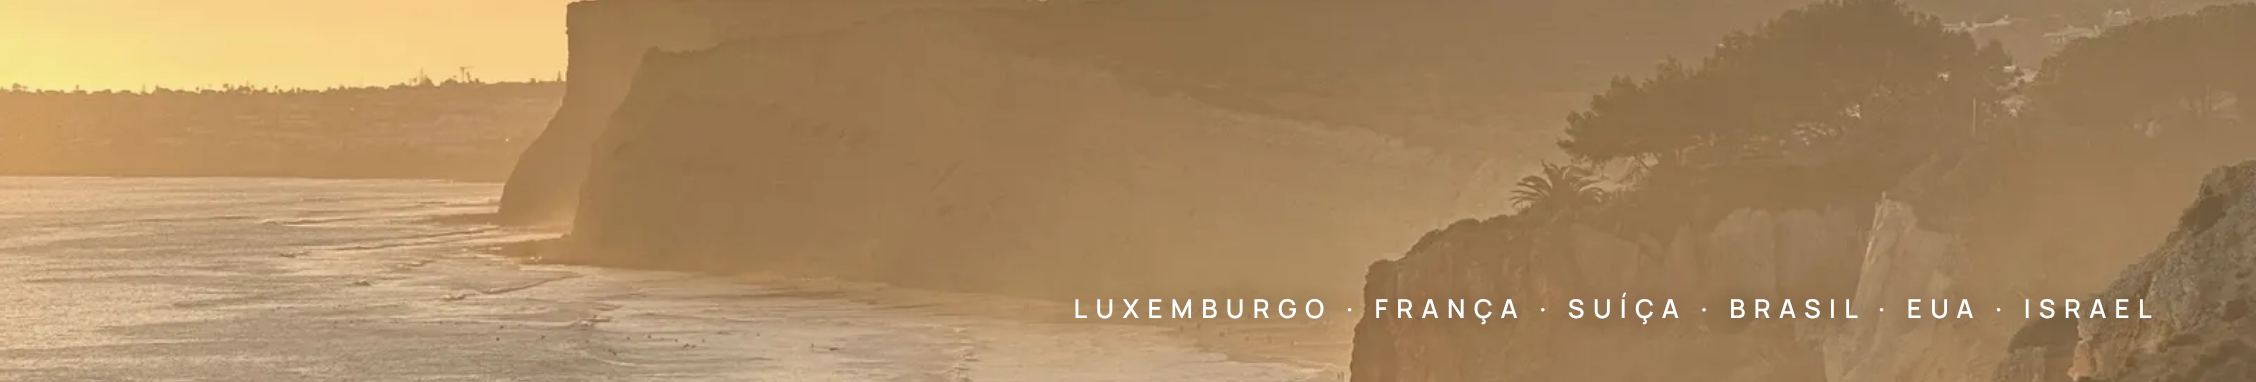
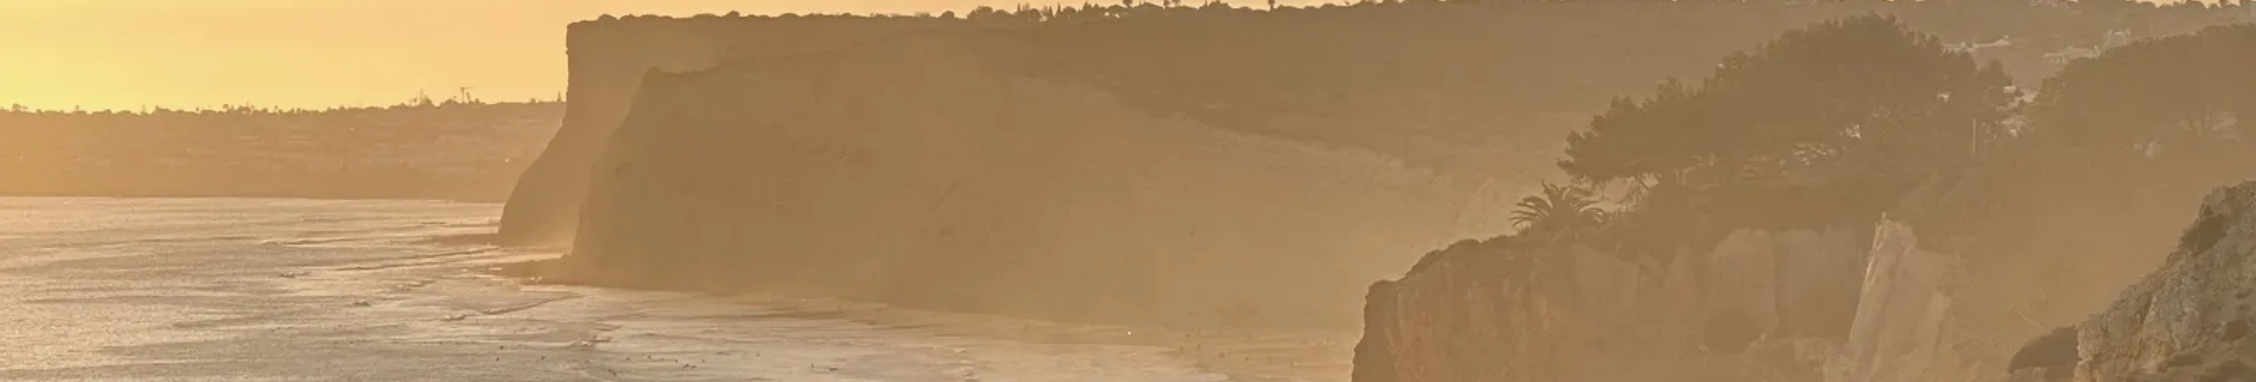
LinkedIn cover: photo only, nothing to cut; 4:1 alternative
Claude-Session: https://claude.ai/code/session_0177yiXChJQsSx7LroxhQqjm

diff --git a/social/brand/README.md b/social/brand/README.md
@@ -5,7 +5,8 @@ One identity on every platform (28 Oct 2026).
 | File | Use |
 | --- | --- |
 | logo-800.png | Profile picture everywhere: LinkedIn, Instagram, Facebook, YouTube, Reddit, Quora. Square; safe for the circle crop. |
-| cover-linkedin-2256x382.png | LinkedIn page cover (1128×191, 2×) |
+| cover-linkedin-2256x382.png | LinkedIn page cover (1128×191, 2×), photo only: no text, so nothing is cut on mobile or under the logo |
+| cover-wide-1584x396.png | Alternative wide cover (4:1), photo only |
 | cover-facebook-1640x624.png | Facebook page cover |
 
 - **Colours:** green #1F3D35, ivory #F6F3EC, gold diamond #C9B48A.
